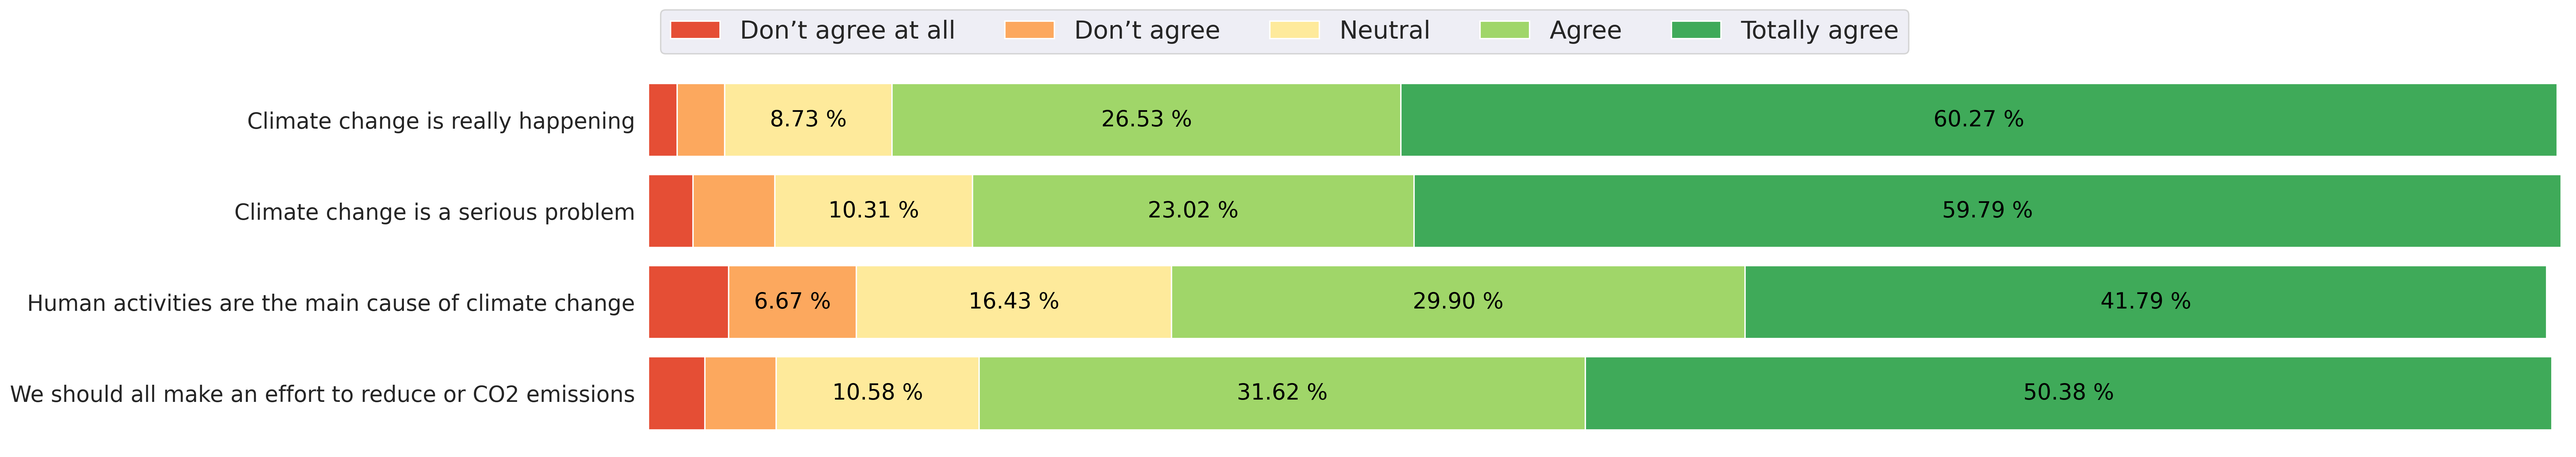
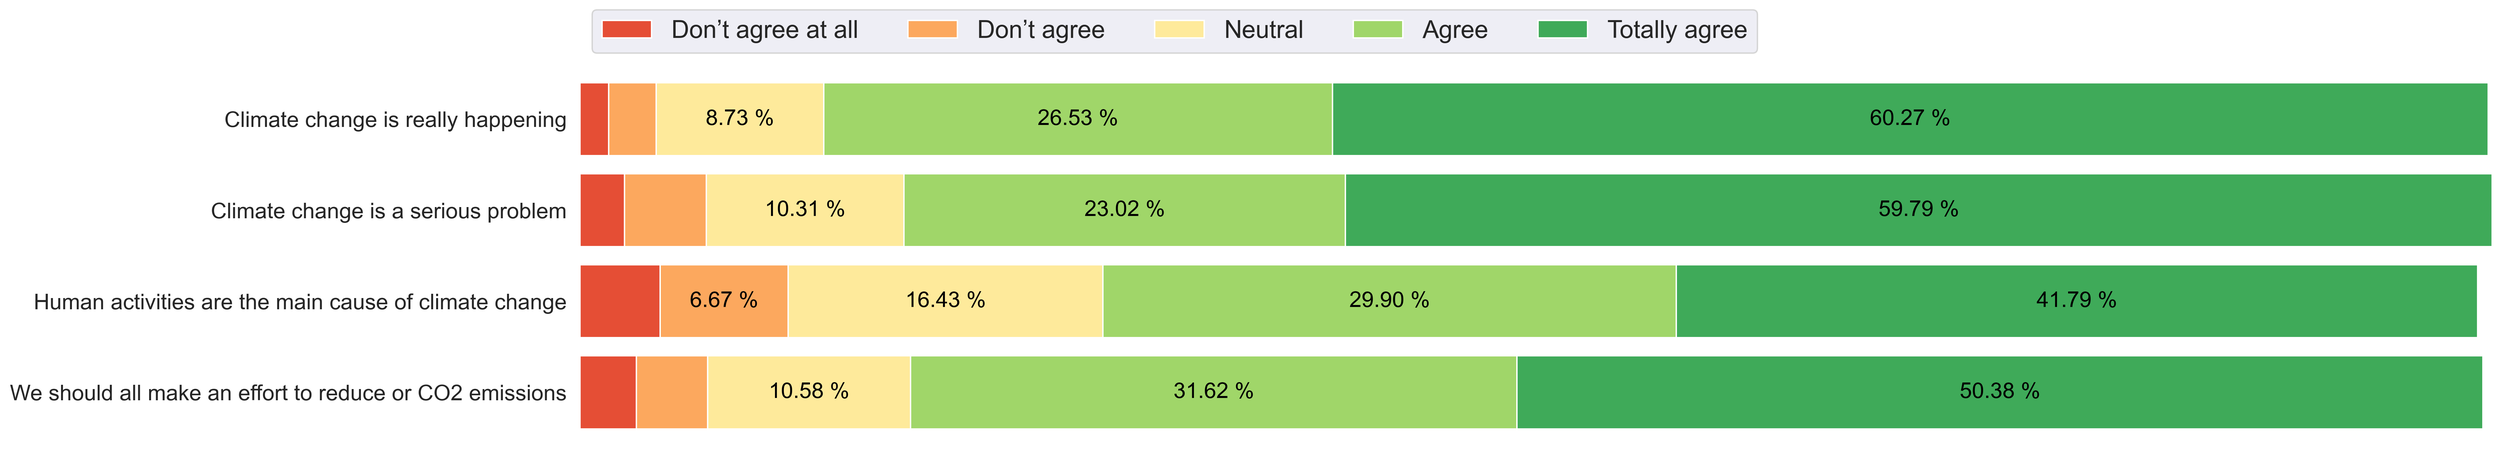
added transport and tampering

diff --git a/scripts/create-plots.py b/scripts/create-plots.py
@@ -3,6 +3,8 @@ from dacstore.dac_analysis import to_results, value_counts
 from dacstore.utils import get_data
 from dacstore.plot import likert_plot
 from dacstore.config import groups_translated
+import matplotlib.pyplot as plt
+
 
 import seaborn as sns  # noqa
 
@@ -179,7 +181,30 @@ def plot_socio_demographics(df, fname):
                 fontsize=8,
             )
     fig = ax.get_figure()
-    fig.savefig(fname, transparent=True, bbox_inches="tight", dpi=300)
+    fig.savefig(fname, transparent=True, bbox_inches="tight", dpi=dpi)
+    plt.close(fig)
+
+
+def plot_transport(df, fname):
+    transport = df[groups_translated.get("Transport")]
+    ax = transport.count().plot(
+        kind="bar", title="Which CO2 transportation methods would you agree with?"
+    )
+    for p in ax.patches:
+        width, height = p.get_width(), p.get_height()
+        x, y = p.get_xy()
+        if height > 10:
+            ax.text(
+                x + width / 2,
+                y + height / 2,
+                "{:.0f}".format(height),
+                horizontalalignment="center",
+                verticalalignment="center",
+                fontsize=8,
+            )
+    fig = ax.get_figure()
+    fig.savefig(fname, transparent=True, bbox_inches="tight", dpi=dpi)
+    plt.close(fig)
 
 
 if __name__ == "__main__":
@@ -195,3 +220,4 @@ if __name__ == "__main__":
     plot_climate_change(df, "figs/climate_change.png")
     plot_socio_demographics(df, "figs/socio_demographic.png")
     plot_tampering(df, "figs/tampering.png")
+    plot_transport(df, "figs/transport.png")

diff --git a/dacstore/config.py b/dacstore/config.py
@@ -56,6 +56,11 @@ groups = {
     "Benefit": [],
     "Safety": [],
     "NIMBY": [],
+    "Distance": [
+        "DAC Anlage",
+        "CO2-Speicherung im Boden",
+        "CO2-Speicherung im Meeresboden",
+    ],
     "Socio Demographic": [
         "Geschlecht",
         "Altersgruppe",

diff --git a/dacstore/plot.py b/dacstore/plot.py
@@ -87,4 +87,5 @@ def likert_plot(
 
     if fname:
         fig.savefig(fname, transparent=True, bbox_inches="tight", dpi=dpi)
+        plt.close(fig)
     return fig, ax
